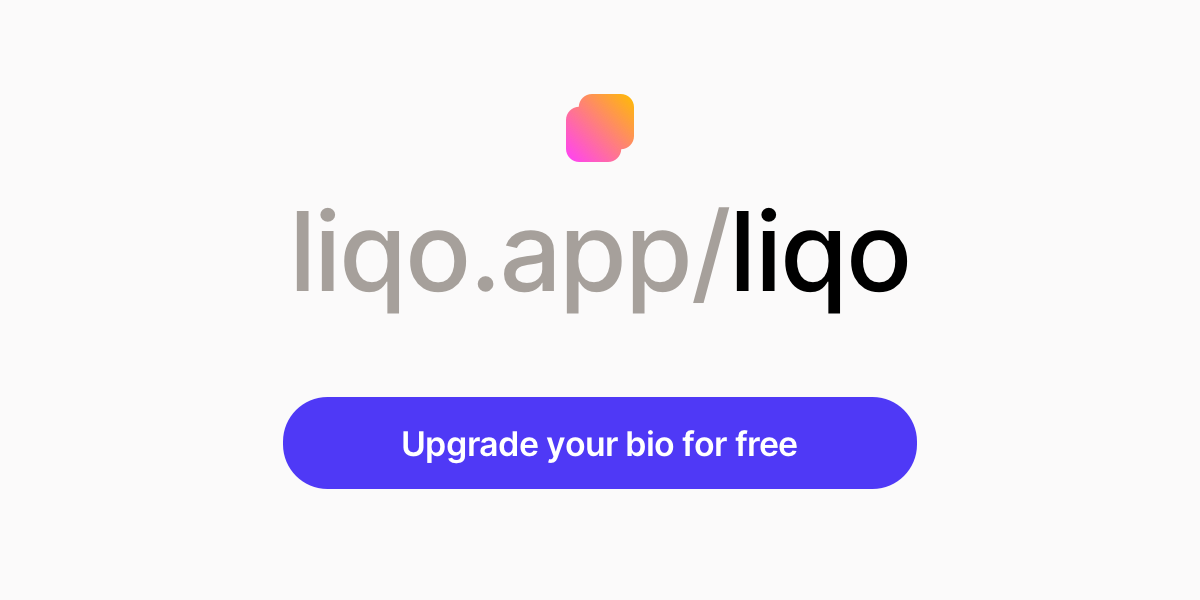
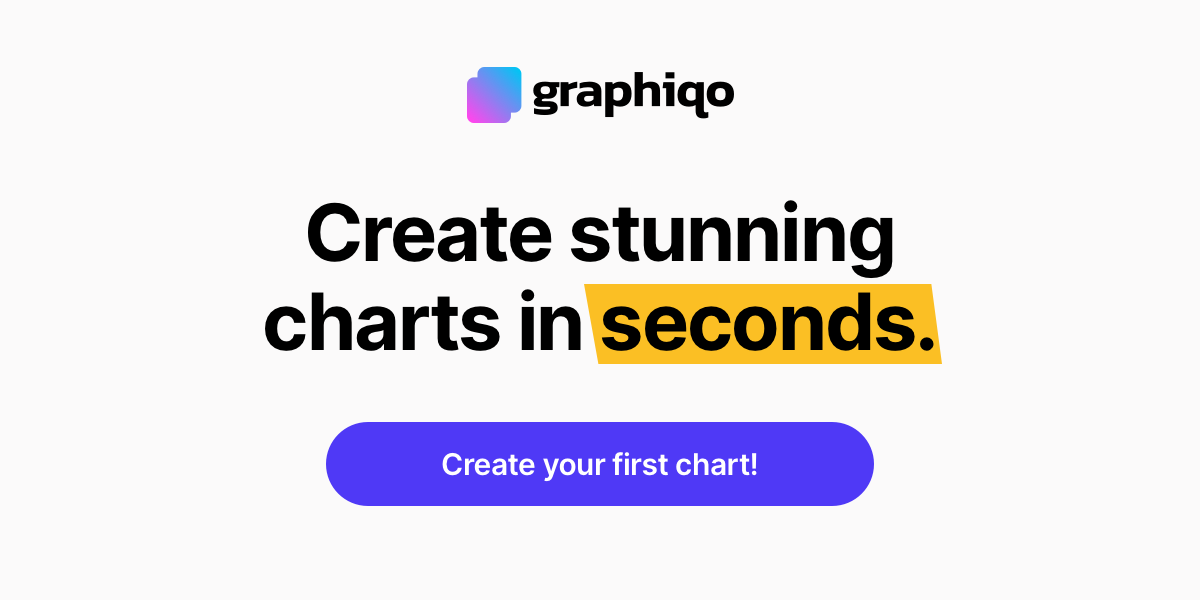
wip

Changed region(s): [[0.2158, 0.33, 0.8017, 0.63], [0.2158, 0.66, 0.7708, 0.87], [0.37, 0.09, 0.6167, 0.27]]

diff --git a/app/components/marketing/Playground.vue b/app/components/marketing/Playground.vue
@@ -1,0 +1,107 @@
+<script setup lang="ts">
+import {
+    PhMagicWand,
+    PhArrowRight,
+    PhMoon,
+    PhBriefcase,
+    PhLightning,
+} from "@phosphor-icons/vue";
+import { PRESETS, DEMO_CHART_DATA } from "~/config/demo-presets";
+
+const activePreset = ref(PRESETS[0]);
+
+// Icon Mapper for Dynamic Components
+const iconMap: Record<string, any> = {
+    PhMoon,
+    PhBriefcase,
+    PhLightning,
+};
+
+// Merges the demo metadata with the active preset's style configuration
+const mergedChartData = computed(() => ({
+    ...DEMO_CHART_DATA,
+    config: { ...DEMO_CHART_DATA.config, ...activePreset.value?.config },
+}));
+</script>
+
+<template>
+    <section class="py-24 bg-white overflow-hidden border-b border-stone-100">
+        <div class="max-w-7xl mx-auto px-6">
+            <div class="flex flex-col items-center">
+                <div class="flex flex-col">
+                    <div
+                        class="flex items-center gap-2 text-indigo-600 font-bold text-xs uppercase tracking-widest mb-4"
+                    >
+                        <PhMagicWand class="size-4" />
+                        Interactive Demo
+                    </div>
+                    <h1
+                        class="flex justify-center text-center text-xl md:text-2xl lg:text-3xl font-semibold"
+                    >
+                        Data visualization reimagined for speed.
+                    </h1>
+
+                    <div class="grid grid-cols-3 gap-4 mt-12">
+                        <button
+                            v-for="preset in PRESETS"
+                            :key="preset.id"
+                            @click="activePreset = preset"
+                            class="flex items-center gap-4 p-4 rounded-2xl border-2 transition-all text-left"
+                            :class="
+                                activePreset?.id === preset.id
+                                    ? 'border-indigo-600 bg-indigo-50/30'
+                                    : 'border-stone-100 hover:border-stone-200'
+                            "
+                        >
+                            <div
+                                class="size-12 rounded-xl bg-white shadow-sm border border-stone-100 flex items-center justify-center"
+                            >
+                                <component
+                                    :is="iconMap[preset.icon]"
+                                    class="size-6 text-stone-600"
+                                />
+                            </div>
+                            <div>
+                                <h3 class="font-bold text-stone-900">
+                                    {{ preset.label }}
+                                </h3>
+                                <p class="text-xs text-stone-500">
+                                    {{ preset.description }}
+                                </p>
+                            </div>
+                        </button>
+                    </div>
+
+                    <NuxtLink
+                        to="/editor"
+                        class="mt-10 inline-flex items-center gap-3 bg-indigo-600 text-white px-8 py-4 rounded-xl font-bold hover:bg-indigo-700 transition-all shadow-lg shadow-indigo-200"
+                    >
+                        Create your first chart
+                        <PhArrowRight class="size-5" />
+                    </NuxtLink>
+                </div>
+
+                <div class="relative">
+                    <div
+                        class="relative rounded-[40px] p-2 transition-colors duration-500 shadow-2xl"
+                        :class="
+                            activePreset?.config.darkMode
+                                ? 'bg-stone-900 shadow-black/20'
+                                : 'bg-white shadow-stone-200'
+                        "
+                    >
+                        <div
+                            class="w-full p-8 border border-stone-100/10 rounded-[32px]"
+                        >
+                            <ChartPreview
+                                :chart-data="mergedChartData"
+                                :options="activePreset?.options"
+                                readonly
+                            />
+                        </div>
+                    </div>
+                </div>
+            </div>
+        </div>
+    </section>
+</template>

diff --git a/app/config/marketing.ts b/app/config/marketing.ts
@@ -42,65 +42,25 @@ export const pricing = [
 
 
 
-export const faqs = [
+export const faqs: FaqItem[] = [
 	{
-		question: "Is this better than a standard link list?",
-		answer:
-			"Yes. Standard links are static and boring. Liqo turns your bio into a high-energy story that keeps users in the 'flow' of social media instead of hitting them with a dry list of buttons.",
+		question: "What is this tool exactly?",
+		answer: "It’s a fast, intuitive way to create stunning charts without the mess of complex software. No steep learning curve, no clutter — just charts that look as good as your data deserves.",
 	},
 	{
-		question: "Will it slow down my bio link?",
-		answer:
-			"Not at all. We optimized Liqo for speed. The stories load instantly so your followers don't bounce while waiting for a heavy page to load.",
+		question: "Do I need to know anything about data visualization?",
+		answer: "Not at all! Whether you're a spreadsheet wizard or just need to show some stats quickly, we’ve made it easy for anyone to jump in and create a great-looking chart in seconds.",
 	},
 	{
-		question: "Is it hard to set up a story?",
-		answer:
-			"If you can post on Instagram, you can use Liqo. Just upload your media, add your links, and you're live in minutes. No 'setup maze' required.",
+		question: "Can I customize my charts?",
+		answer: "Yes — fully. Fonts, colors, gridlines, legends, styles… it’s all in your hands. Make your charts match your vibe.",
 	},
 	{
-		question: "Does it work on all mobile browsers?",
-		answer:
-			"Absolutely. It is designed mobile-first to feel native whether your users are coming from Instagram, TikTok, or Twitter.",
+		question: "Is this free?",
+		answer: "The beta is totally free while we’re testing and improving the product. Once we launch, we’ll have a free tier and a Pro plan with extra features.",
 	},
 	{
-		question: "Can I track how many people 'tapped' through?",
-		answer:
-			"Yes. You get clear analytics on every slide. You’ll know exactly where people are engaging and where they are dropping off.",
-	},
-	{
-		question: "Can I customize the colors and branding?",
-		answer:
-			"Of course. Your story should look like your brand. You can customize the theme to match your aesthetic perfectly.",
-	},
-	{
-		question: "Can I still have a 'traditional' link list if I want?",
-		answer:
-			"You can mix and match. Use a story for your main launch and keep your secondary links easily accessible at the end of the journey.",
-	},
-	{
-		question: "How many stories can I create?",
-		answer:
-			"The Free plan lets you get started immediately. Our Pro plan offers unlimited stories and deeper analytics for power creators.",
-	},
-	{
-		question: "Is there a free plan?",
-		answer:
-			"Yep. You can start building your dynamic bio for free—perfect for testing the concept with your audience.",
-	},
-	{
-		question: "What if I want to change a link quickly?",
-		answer:
-			"Updates are instant. Change a destination URL or swap an image in the dashboard and your bio link updates everywhere immediately.",
-	},
-	{
-		question: "Can I cancel my Pro subscription anytime?",
-		answer:
-			"100%. No contracts, no lock-in. We want you here because you love the product, not because of a bill.",
-	},
-	{
-		question: "Do you offer support if I get stuck?",
-		answer:
-			"Definitely. Reach out via the dashboard or Twitter and we'll help you get your story looking perfect.",
+		question: "What formats can I export my charts in?",
+		answer: "You can export as PNG, or JPG. Or just grab a link and share it instantly — no downloads required.",
 	},
 ];

diff --git a/app/components/marketing/Hero.vue b/app/components/marketing/Hero.vue
@@ -37,7 +37,13 @@ const submit = () => {
                 class="text-center text-5xl tracking-tighter md:text-6xl lg:text-7xl font-bold text-stone-950 dark:text-dark-100"
             >
                 Create stunning <br />
-                charts in seconds.
+                charts in
+                <span class="relative inline-block">
+                    <span class="relative z-10">seconds.</span>
+                    <span
+                        class="absolute inset-0 bg-amber-300 -skew-y-2 transform -z-0 -inset-x-2 inset-y-1"
+                    ></span>
+                </span>
             </h1>
             <p class="text-balance text-stone-600 dark:text-dark-400">
                 No clutter. No complexity. Just powerful, instant chart creation
@@ -53,50 +59,27 @@ const submit = () => {
             </Button>
         </div>
 
-        <div class="hidden md:flex justify-center items-center">
-            <div
-                class="w-72 aspect-9/16 bg-stone-200 rounded-3xl overflow-hidden scale-75"
-            >
-                <video
-                    src="https://d1awd69t1ppqjh.cloudfront.net/static/marketing/liqo-example-1.mp4"
-                    muted
-                    @mouseenter="(e) => (e.target as HTMLVideoElement).play()"
-                    @mouseleave="(e) => (e.target as HTMLVideoElement).pause()"
-                    loop
-                    playsinline
-                    webkit-playsinline
-                    class="w-full h-full object-cover"
+        <div class="pt-10">
+            <Panel class="p-0 max-w-5xl">
+                <!-- Light mode image -->
+                <NuxtImg
+                    provider="cloudfront"
+                    src="/static/editor-light.png"
+                    alt="Dashboard Light"
+                    class="block dark:hidden w-full"
                 />
-            </div>
-            <div
-                class="w-72 aspect-9/16 bg-stone-200 rounded-3xl overflow-hidden"
-            >
-                <video
-                    src="https://d1awd69t1ppqjh.cloudfront.net/static/marketing/liqo-example-1.mp4"
-                    muted
-                    @mouseenter="(e) => (e.target as HTMLVideoElement).play()"
-                    @mouseleave="(e) => (e.target as HTMLVideoElement).pause()"
-                    loop
-                    playsinline
-                    webkit-playsinline
-                    class="w-full h-full object-cover"
+
+                <!-- Dark mode image -->
+                <NuxtImg
+                    provider="cloudfront"
+                    src="/static/editor-light.png"
+                    alt="Dashboard Dark"
+                    class="hidden dark:block w-full"
                 />
-            </div>
-            <div
-                class="w-72 aspect-9/16 bg-stone-200 rounded-3xl overflow-hidden scale-75"
-            >
-                <video
-                    src="https://d1awd69t1ppqjh.cloudfront.net/static/marketing/liqo-example-1.mp4"
-                    muted
-                    @mouseenter="(e) => (e.target as HTMLVideoElement).play()"
-                    @mouseleave="(e) => (e.target as HTMLVideoElement).pause()"
-                    loop
-                    playsinline
-                    webkit-playsinline
-                    class="w-full h-full object-cover"
-                />
-            </div>
+            </Panel>
         </div>
+
+        <Playground />
     </section>
     <!-- End Hero -->
 </template>

diff --git a/app/config/demo-presets.ts b/app/config/demo-presets.ts
@@ -1,0 +1,98 @@
+// utils/demo-presets.ts
+
+// Shared mock data to make the charts look real
+const mockSeriesData = [120, 200, 150, 80, 70, 110, 130];
+const mockCategories = ['Mon', 'Tue', 'Wed', 'Thu', 'Fri', 'Sat', 'Sun'];
+
+export const DEMO_CHART_DATA = {
+	name: "Revenue Performance",
+	config: {
+		subtitle: "Weekly growth metrics",
+		notes: "Includes seasonal adjustments for the current quarter.",
+		source: "Financial Cloud API",
+		darkMode: false,
+	}
+};
+
+export const PRESETS = [
+	{
+		id: 'modern-dark',
+		label: 'Modern Dark',
+		icon: 'PhMoon',
+		description: 'High-contrast neon for dashboards.',
+		config: { darkMode: true },
+		options: {
+			backgroundColor: 'transparent',
+			color: ['#6366f1'],
+			grid: { top: 20, right: 20, bottom: 40, left: 40 },
+			xAxis: {
+				type: 'category',
+				data: mockCategories,
+				axisLine: { lineStyle: { color: '#444' } }
+			},
+			yAxis: {
+				type: 'value',
+				splitLine: { lineStyle: { color: '#222' } }
+			},
+			series: [{
+				data: mockSeriesData,
+				type: 'line',
+				smooth: true,
+				areaStyle: { opacity: 0.2, color: '#6366f1' },
+				lineStyle: { width: 3 }
+			}]
+		}
+	},
+	{
+		id: 'corporate-light',
+		label: 'Professional',
+		icon: 'PhBriefcase',
+		description: 'Clean, minimal look for reports.',
+		config: { darkMode: false },
+		options: {
+			backgroundColor: 'transparent',
+			color: ['#1c1917'],
+			grid: { top: 20, right: 20, bottom: 40, left: 40 },
+			xAxis: {
+				type: 'category',
+				data: mockCategories,
+				axisLine: { lineStyle: { color: '#e7e5e4' } }
+			},
+			yAxis: {
+				type: 'value',
+				splitLine: { lineStyle: { color: '#f5f5f4' } }
+			},
+			series: [{
+				data: mockSeriesData,
+				type: 'bar',
+				barWidth: '60%',
+				itemStyle: { borderRadius: [4, 4, 0, 0] }
+			}]
+		}
+	},
+	{
+		id: 'accent-brand',
+		label: 'Brand Indigo',
+		icon: 'PhLightning',
+		description: 'Vibrant colors to stand out.',
+		config: { darkMode: false },
+		options: {
+			backgroundColor: 'transparent',
+			color: ['#4f46e5'],
+			grid: { top: 20, right: 20, bottom: 40, left: 40 },
+			xAxis: {
+				type: 'category',
+				boundaryGap: false,
+				data: mockCategories
+			},
+			yAxis: { type: 'value' },
+			series: [{
+				data: [150, 230, 224, 218, 135, 147, 260],
+				type: 'line',
+				symbol: 'circle',
+				symbolSize: 8,
+				lineStyle: { width: 4 }
+			}]
+		}
+	}
+];

diff --git a/app/pages/p/[token].vue b/app/pages/p/[token].vue
@@ -29,7 +29,7 @@ useHead({
 
 <template>
     <div
-        class="min-h-screen bg-white flex flex-col items-center justify-center p-4 md:p-8"
+        class="min-h-screen bg-white flex flex-col items-center justify-center"
     >
         <div v-if="pending" class="animate-pulse flex flex-col items-center">
             <div class="h-8 w-64 bg-stone-100 rounded mb-4"></div>
@@ -41,7 +41,7 @@ useHead({
         <template v-else-if="chart">
             <div class="w-full max-w-5xl">
                 <div
-                    class="w-full h-full max-w-6xl rounded-4xl p-10 transition-all duration-700 relative flex flex-col shadow-[0_2px_4px_rgba(0,0,0,0.04),inset_0_0_0_1px_rgba(0,0,0,0.06)]"
+                    class="w-full h-full max-w-6xl rounded-4xl px-10 pt-10 pb-6 transition-all duration-700 relative flex flex-col shadow-[0_2px_4px_rgba(0,0,0,0.04),inset_0_0_0_1px_rgba(0,0,0,0.06)]"
                     :class="
                         chart?.config?.darkMode
                             ? 'bg-[#0F0F0F] border-stone-800'
